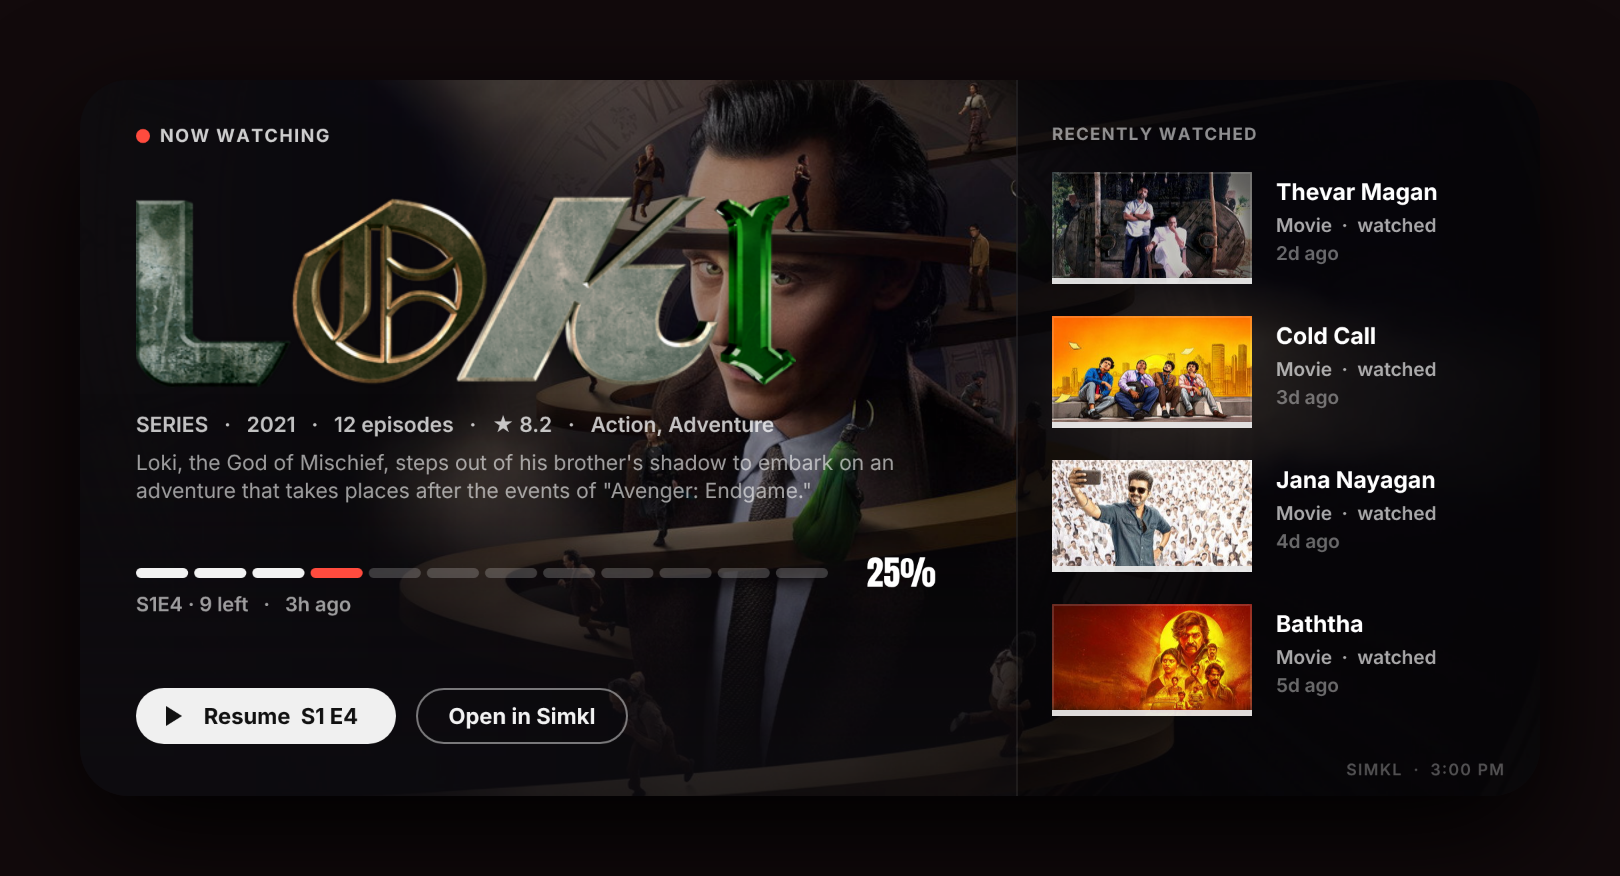
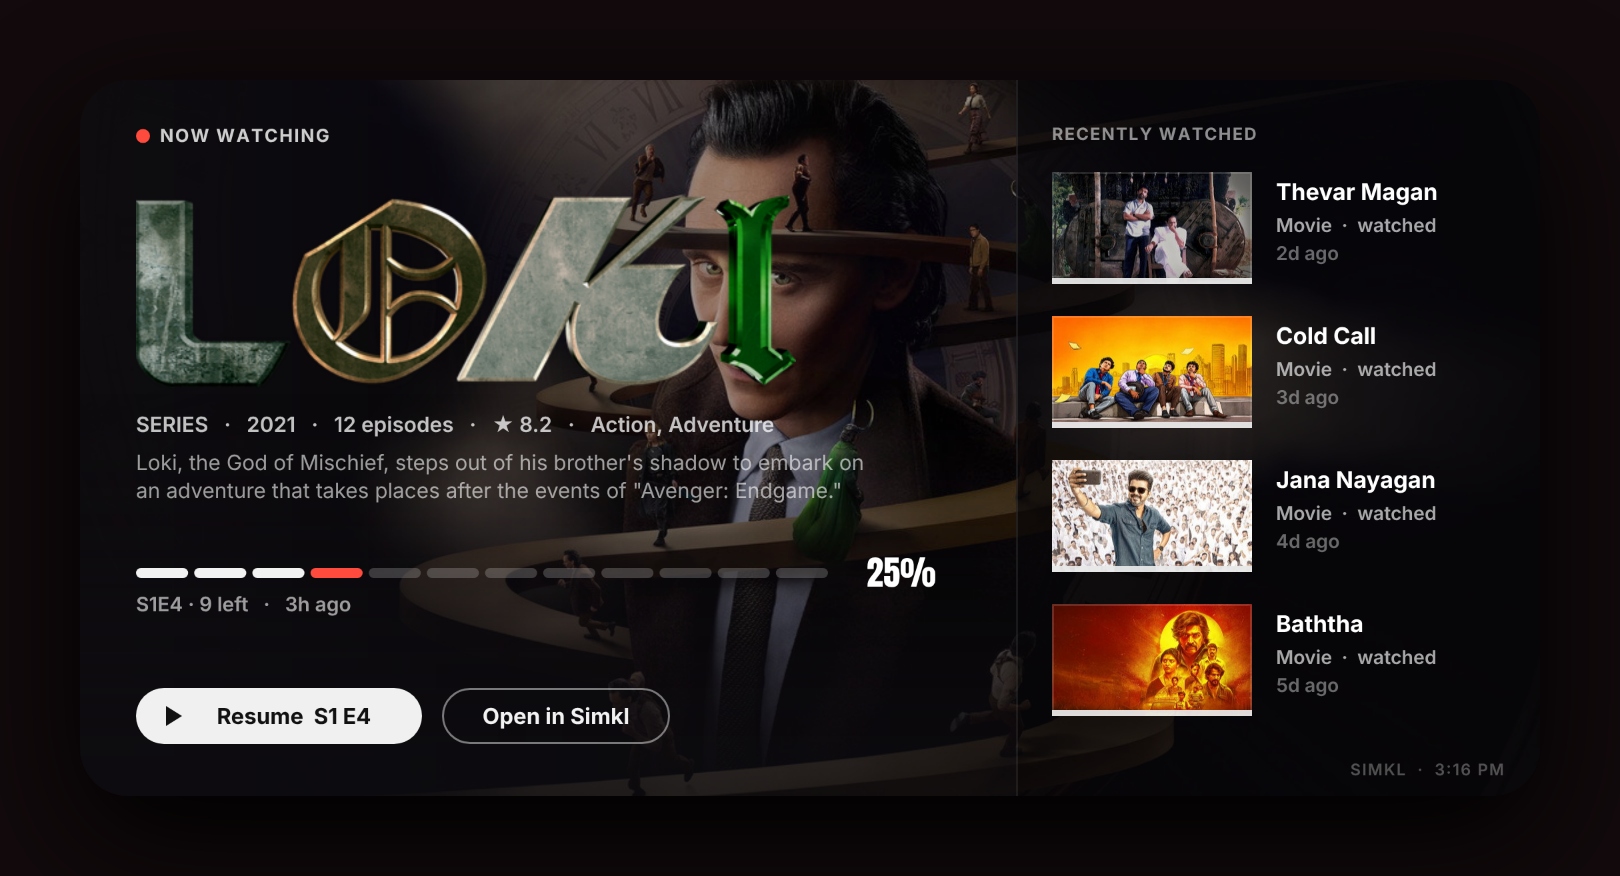
Fix clipped button labels on the Mac (Read → Rea, Watch again → Watch)
Labels were drawn in a box sized to the estimated text width; the Mac's font
runs wider, so the box clipped the end. The box is now 40pt wider than the
label (still centred), pills are sized more generously, the synopsis keeps
clear of the side panel, and CH no longer touches the chapter number.
Checked with text rendered deliberately wider than the estimate.

Claude-Session: https://claude.ai/code/session_01PXGdQy46T6wRnRrF1gL8cR

diff --git a/scriptable/Simkl Big.js b/scriptable/Simkl Big.js
@@ -274,7 +274,7 @@ function metaLine(hero) {
 function drawPill(ctx, hero, x, y, labelOverride) {
   const label = labelOverride || (hero.finished ? "Watch again" : "Resume");
   const PFS = 11, PILL_H = 28, ICON_W = 8, GAP_I = 7, PAD_X = 15;
-  const labelW = Math.ceil(textWidth(label, PFS) * 1.08);      // a little slack: estimates run short
+  const labelW = Math.ceil(textWidth(label, PFS) * 1.25);      // generous: the Mac's font runs wider than the estimate
   const pillW = PAD_X + ICON_W + GAP_I + labelW + PAD_X, midY = y + PILL_H / 2;
   rounded(ctx, x, y, pillW, PILL_H, PILL_H / 2, white(0.94));
   const ix = x + PAD_X;
@@ -282,7 +282,8 @@ function drawPill(ctx, hero, x, y, labelOverride) {
   const tri = new Path(); tri.move(new Point(ix, midY - 5)); tri.addLine(new Point(ix, midY + 5)); tri.addLine(new Point(ix + ICON_W, midY));
   tri.closeSubpath(); ctx.addPath(tri); ctx.fillPath();
   ctx.setFont(Font.boldSystemFont(PFS)); ctx.setTextColor(col("#111111")); ctx.setTextAlignedCenter();
-  ctx.drawTextInRect(label, new Rect(ix + ICON_W + GAP_I, midY - PFS * 0.6, labelW, PFS * 1.3));   // SF caps centre ≈ 0.6em below line top
+  // the text box is 40pt wider than the label, centred on the same spot: text never gets clipped (that turned "Read" into "Rea")
+  ctx.drawTextInRect(label, new Rect(ix + ICON_W + GAP_I - 20, midY - PFS * 0.6, labelW + 40, PFS * 1.3));   // SF caps centre ≈ 0.6em below line top
   ctx.setTextAlignedLeft();
   return pillW;
 }
@@ -420,10 +421,10 @@ function eased(ctx, x, y, w, h, dir, a0, a1) {
   }
 }
 function outlinePill(ctx, label, x, y) {
-  const fs = 11, w = Math.ceil(textWidth(label, fs) * 1.08) + 30;
+  const fs = 11, w = Math.ceil(textWidth(label, fs) * 1.2) + 30;
   strokeRounded(ctx, x + 0.5, y + 0.5, w - 1, 27, 13.5, white(0.45), 1);
   ctx.setFont(Font.boldSystemFont(fs)); ctx.setTextColor(white(0.95)); ctx.setTextAlignedCenter();
-  ctx.drawTextInRect(label, new Rect(x, y + 14 - fs * 0.6, w, fs * 1.3)); ctx.setTextAlignedLeft();
+  ctx.drawTextInRect(label, new Rect(x - 20, y + 14 - fs * 0.6, w + 40, fs * 1.3)); ctx.setTextAlignedLeft();
   return w;
 }
 
@@ -488,7 +489,7 @@ function drawXL(hero, rows, updated) {
   // synopsis, two lines
   if (hero.overview) {
     ctx.setFont(Font.regularSystemFont ? Font.regularSystemFont(10.5) : Font.systemFont(10.5)); ctx.setTextColor(white(0.6));
-    wrapLines(hero.overview, 10.5, TW, 2).forEach((ln, i) => ctx.drawText(ln, new Point(TX, LOGO_BOTTOM + 31 + i * 14)));
+    wrapLines(hero.overview, 10.5, TW - 40, 2).forEach((ln, i) => ctx.drawText(ln, new Point(TX, LOGO_BOTTOM + 31 + i * 14)));
   }
 
   // progress: slim episode segments (or a line) + % on the right

diff --git a/scriptable/Manga Big.js b/scriptable/Manga Big.js
@@ -171,7 +171,7 @@ function screentone(ctx, x, y, w, h, fromX, fromY, reach, maxR, c) {
 }
 function drawPill(ctx, label, x, y) {
   const PFS = 11, PILL_H = 28, ICON_W = 8, GAP_I = 7, PAD_X = 15;
-  const labelW = Math.ceil(textWidth(label, PFS) * 1.08);
+  const labelW = Math.ceil(textWidth(label, PFS) * 1.25);      // generous: the Mac's font runs wider than the estimate
   const pillW = PAD_X + ICON_W + GAP_I + labelW + PAD_X, midY = y + PILL_H / 2;
   rounded(ctx, x, y, pillW, PILL_H, PILL_H / 2, white(0.95));
   const ix = x + PAD_X;
@@ -180,7 +180,8 @@ function drawPill(ctx, label, x, y) {
   page([new Point(ix + 3.6, midY - 3), new Point(ix - 0.5, midY - 5), new Point(ix - 0.5, midY + 3.8), new Point(ix + 3.6, midY + 5.6)]);
   page([new Point(ix + 4.6, midY - 3), new Point(ix + 8.7, midY - 5), new Point(ix + 8.7, midY + 3.8), new Point(ix + 4.6, midY + 5.6)]);
   ctx.setFont(Font.boldSystemFont(PFS)); ctx.setTextColor(col("#111111")); ctx.setTextAlignedCenter();
-  ctx.drawTextInRect(label, new Rect(ix + ICON_W + GAP_I, midY - PFS * 0.6, labelW, PFS * 1.3));
+  // the text box is 40pt wider than the label, centred on the same spot: text never gets clipped (that turned "Read" into "Rea")
+  ctx.drawTextInRect(label, new Rect(ix + ICON_W + GAP_I - 20, midY - PFS * 0.6, labelW + 40, PFS * 1.3));
   ctx.setTextAlignedLeft();
 }
 // which of the last 8 weeks (Mon–Sun) had a chapter; [oldest … this week]
@@ -283,7 +284,7 @@ function drawLarge(main, others, updated) {
       ctx.setFont(Font.boldSystemFont(7.5)); ctx.setTextColor(col(ACCENT));
       ctx.drawText(track("CH"), new Point(tx, y + CARD_H - 21));
       ctx.setFont(display(20)); ctx.setTextColor(white(1));
-      ctx.drawText(fmtCh(c.num), new Point(tx + 15, y + CARD_H - 30));
+      ctx.drawText(fmtCh(c.num), new Point(tx + 19, y + CARD_H - 30));
       ctx.setFont(Font.semiboldSystemFont(9.5)); ctx.setTextColor(white(0.6));
       ctx.setTextAlignedRight(); ctx.drawTextInRect(ago(c.date), new Rect(x, y + CARD_H - 22, CDW - 10, 12)); ctx.setTextAlignedLeft();
     }
